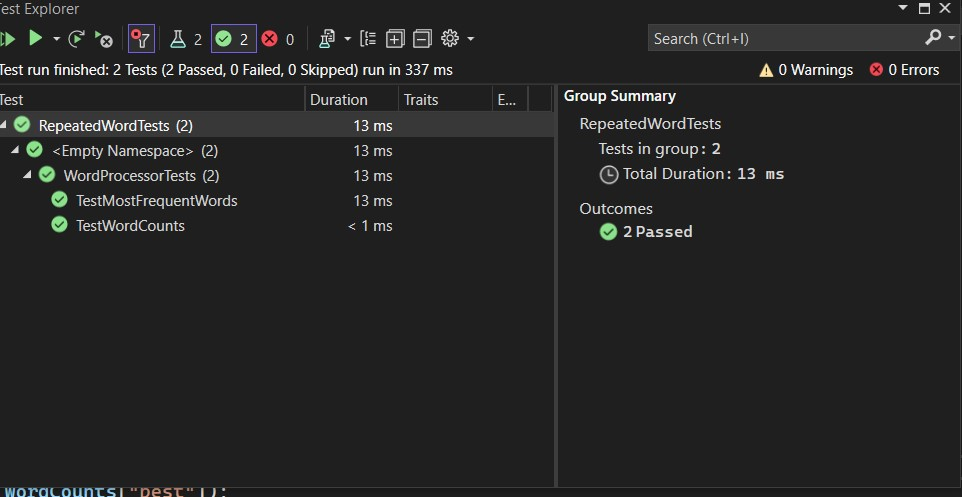
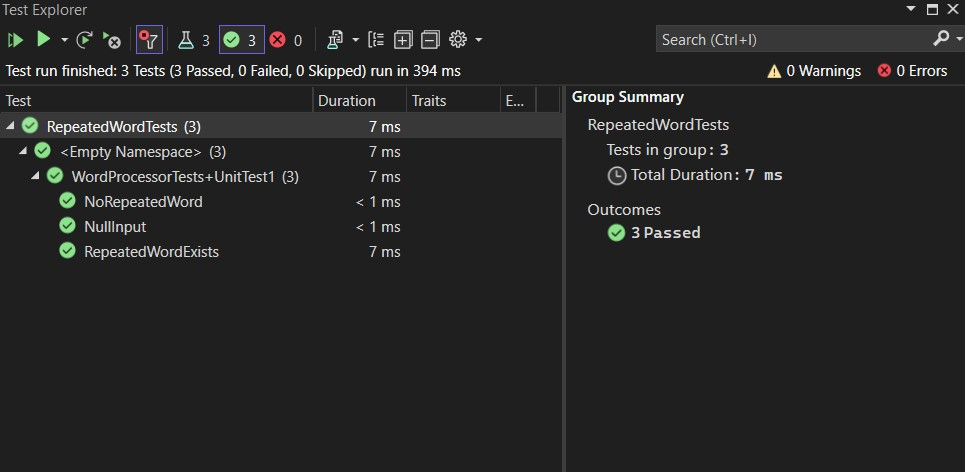
i edie it  to find the first word to occur more than once in a string

diff --git a/repeated-word/Program.cs b/repeated-word/Program.cs
@@ -5,46 +5,67 @@ public class Program
 {
     public static void Main(string[] args)
     {
-        string input = "Once upon a time, there was a brave princess who...";
-        WordProcessor wordProcessor = new WordProcessor();
-        Dictionary<string, int> wordCounts = wordProcessor.GetWordCounts(input);
-        List<string> mostFrequentWords = wordProcessor.GetMostFrequentWords(input, 3);
+        //    string input = "Once upon a time, there was a brave princess who...";
+        //    WordProcessor wordProcessor = new WordProcessor();
+        //    Dictionary<string, int> wordCounts = wordProcessor.GetWordCounts(input);
+        //    List<string> mostFrequentWords = wordProcessor.GetMostFrequentWords(input, 3);
 
-        Console.WriteLine("Word Counts:");
-        foreach (var kvp in wordCounts)
-        {
-            Console.WriteLine($"{kvp.Key}: {kvp.Value}");
-        }
+        //    Console.WriteLine("Word Counts:");
+        //    foreach (var kvp in wordCounts)
+        //    {
+        //        Console.WriteLine($"{kvp.Key}: {kvp.Value}");
+        //    }
 
-        Console.WriteLine($"Top 3 Most Frequent Words: {string.Join(", ", mostFrequentWords)}");
+        //    Console.WriteLine($"Top 3 Most Frequent Words: {string.Join(", ", mostFrequentWords)}");
 
 
-        Console.WriteLine("--------------------");
+        //    Console.WriteLine("--------------------");
 
-        string input2 = "It was the best of times, it was the worst of times, it was the age of wisdom, it was the age of foolishness, it was the epoch of belief, it was the epoch of incredulity, it was the season of Light, it was the season of Darkness, it was the spring of hope, it was the winter of despair, we had everything before us, we had nothing before us, we were all going direct to Heaven, we were all going direct the other way – in short, the period was so far like the present period, that some of its noisiest authorities insisted on its being received, for good or for evil, in the superlative degree of comparison only...";
-        Dictionary<string, int> wordCounts2 = wordProcessor.GetWordCounts(input2);
-        List<string> mostFrequentWords2 = wordProcessor.GetMostFrequentWords(input2, 3);
+        //    string input2 = "It was the best of times, it was the worst of times, it was the age of wisdom, it was the age of foolishness, it was the epoch of belief, it was the epoch of incredulity, it was the season of Light, it was the season of Darkness, it was the spring of hope, it was the winter of despair, we had everything before us, we had nothing before us, we were all going direct to Heaven, we were all going direct the other way – in short, the period was so far like the present period, that some of its noisiest authorities insisted on its being received, for good or for evil, in the superlative degree of comparison only...";
+        //    Dictionary<string, int> wordCounts2 = wordProcessor.GetWordCounts(input2);
+        //    List<string> mostFrequentWords2 = wordProcessor.GetMostFrequentWords(input2, 3);
 
-        Console.WriteLine("Word Counts:");
-        foreach (var kvp in wordCounts2)
-        {
-            Console.WriteLine($"{kvp.Key}: {kvp.Value}");
-        }
+        //    Console.WriteLine("Word Counts:");
+        //    foreach (var kvp in wordCounts2)
+        //    {
+        //        Console.WriteLine($"{kvp.Key}: {kvp.Value}");
+        //    }
 
-        Console.WriteLine($"Top 3 Most Frequent Words: {string.Join(", ", mostFrequentWords2)}");
+        //    Console.WriteLine($"Top 3 Most Frequent Words: {string.Join(", ", mostFrequentWords2)}");
 
-        Console.WriteLine("--------------------");
+        //    Console.WriteLine("--------------------");
 
-        string input3 = "It was a queer, sultry summer, the summer they electrocuted the Rosenbergs, and I didn’t know what I was doing in New York...";
-        Dictionary<string, int> wordCounts3 = wordProcessor.GetWordCounts(input3);
-        List<string> mostFrequentWords3 = wordProcessor.GetMostFrequentWords(input3, 3);
+        //    string input3 = "It was a queer, sultry summer, the summer they electrocuted the Rosenbergs, and I didn’t know what I was doing in New York...";
+        //    Dictionary<string, int> wordCounts3 = wordProcessor.GetWordCounts(input3);
+        //    List<string> mostFrequentWords3 = wordProcessor.GetMostFrequentWords(input3, 3);
 
-        Console.WriteLine("Word Counts:");
-        foreach (var kvp in wordCounts3)
-        {
-            Console.WriteLine($"{kvp.Key}: {kvp.Value}");
-        }
+        //    Console.WriteLine("Word Counts:");
+        //    foreach (var kvp in wordCounts3)
+        //    {
+        //        Console.WriteLine($"{kvp.Key}: {kvp.Value}");
+        //    }
 
-        Console.WriteLine($"Top 3 Most Frequent Words: {string.Join(", ", mostFrequentWords3)}");
+        //    Console.WriteLine($"Top 3 Most Frequent Words: {string.Join(", ", mostFrequentWords3)}");
+        //
+
+
+
+        var input = "Once upon a time, there was a brave princess who...";
+        string result = RepeatedWord.FindFirstRepeatedWord(input);
+        Console.WriteLine(result);
+
+        Console.WriteLine("--------------------------");
+
+        var input2 = "It was the best of times, it was the worst of times, it was the age of wisdom, it was the age of foolishness, it was the epoch of belief, it was the epoch of incredulity, it was the season of Light, it was the season of Darkness, it was the spring of hope, it was the winter of despair, we had everything before us, we had nothing before us, we were all going direct to Heaven, we were all going direct the other way – in short, the period was so far like the present period, that some of its noisiest authorities insisted on its being received, for good or for evil, in the superlative degree of comparison only...";
+        string result2 = RepeatedWord.FindFirstRepeatedWord(input2);
+        Console.WriteLine(result2);
+
+        Console.WriteLine("--------------------------");
+
+        var input3 = "It was a queer, sultry summer, the summer they electrocuted the Rosenbergs, and I didn’t know what I was doing in New York...";
+        string result3 = RepeatedWord.FindFirstRepeatedWord(input3);
+        Console.WriteLine(result3);
+
     }
 }
+

diff --git a/repeated-word/WordProcessor.cs b/repeated-word/WordProcessor.cs
@@ -3,45 +3,66 @@ using System.Collections.Generic;
 using System.Linq;
 using System.Text.RegularExpressions;
 
-public class WordProcessor
-{
-    public Dictionary<string, int> GetWordCounts(string input)
+
+    //public Dictionary<string, int> GetWordCounts(string input)
+    //{
+    //    // Split the input string into words
+    //    string[] words = Regex.Split(input, @"\W+");
+
+    //    // Create a dictionary to store word frequencies
+    //    Dictionary<string, int> wordCount = new Dictionary<string, int>();
+
+    //    foreach (string word in words)
+    //    {
+    //        // Remove punctuation and convert to lowercase for case-insensitive comparison
+    //        string cleanedWord = word.Trim(new char[] { '.', ',', '!', '?', '-', ':', ';' }).ToLower();
+
+    //        // Update the word count
+    //        if (wordCount.ContainsKey(cleanedWord))
+    //        {
+    //            wordCount[cleanedWord]++;
+    //        }
+    //        else
+    //        {
+    //            wordCount[cleanedWord] = 1;
+    //        }
+    //    }
+
+    //    return wordCount;
+    //}
+
+    //public List<string> GetMostFrequentWords(string input, int count)
+    //{
+    //    Dictionary<string, int> wordCount = GetWordCounts(input);
+
+    //    // Sort the dictionary by value in descending order
+    //    var sortedWordCount = wordCount.OrderByDescending(kv => kv.Value);
+
+    //    // Take the top 'count' words
+    //    var mostFrequentWords = sortedWordCount.Take(count).Select(kv => kv.Key).ToList();
+
+    //    return mostFrequentWords;
+    //}
+    public class RepeatedWord
     {
-        // Split the input string into words
-        string[] words = Regex.Split(input, @"\W+");
-
-        // Create a dictionary to store word frequencies
-        Dictionary<string, int> wordCount = new Dictionary<string, int>();
-
-        foreach (string word in words)
+        public static string FindFirstRepeatedWord(string input)
         {
-            // Remove punctuation and convert to lowercase for case-insensitive comparison
-            string cleanedWord = word.Trim(new char[] { '.', ',', '!', '?', '-', ':', ';' }).ToLower();
+            if (string.IsNullOrEmpty(input))
+                return null;
 
-            // Update the word count
-            if (wordCount.ContainsKey(cleanedWord))
+            string[] words = Regex.Split(input.ToLower(), @"\W+");
+
+            HashSet<string> reapeted = new HashSet<string>();
+
+            foreach (string word in words)
             {
-                wordCount[cleanedWord]++;
+                if (!reapeted.Add(word))
+                {
+                    return word;
+                }
             }
-            else
-            {
-                wordCount[cleanedWord] = 1;
-            }
+
+            return null;
         }
-
-        return wordCount;
     }
 
-    public List<string> GetMostFrequentWords(string input, int count)
-    {
-        Dictionary<string, int> wordCount = GetWordCounts(input);
-
-        // Sort the dictionary by value in descending order
-        var sortedWordCount = wordCount.OrderByDescending(kv => kv.Value);
-
-        // Take the top 'count' words
-        var mostFrequentWords = sortedWordCount.Take(count).Select(kv => kv.Key).ToList();
-
-        return mostFrequentWords;
-    }
-}

diff --git a/RepeatedWordTests/UnitTest1.cs b/RepeatedWordTests/UnitTest1.cs
@@ -4,26 +4,33 @@ using Xunit;
 
 public class WordProcessorTests
 {
-    [Fact]
-    public void TestWordCounts()
+    public class UnitTest1
     {
-        WordProcessor wordProcessor = new WordProcessor();
-        string input = "It was the best of times, it was the worst of times...";
-        Dictionary<string, int> wordCounts = wordProcessor.GetWordCounts(input);
+        
+        [Fact]
+        public void NullInput()
+        {
+            string input = null;
+            string result = RepeatedWord.FindFirstRepeatedWord(input);
+            Assert.Null(result);
+        }
 
-        Assert.Equal(2, wordCounts["it"]);
-        Assert.Equal(2, wordCounts["was"]);
-        Assert.Equal(2, wordCounts["the"]);
-        Assert.Equal(1, wordCounts["best"]);
-    }
+        [Fact]
+        public void NoRepeatedWord()
+        {
+            string input = "This is a good student.";
+            string result = RepeatedWord.FindFirstRepeatedWord(input);
+            Assert.Null(result);
+        }
 
-    [Fact]
-    public void TestMostFrequentWords()
-    {
-        WordProcessor wordProcessor = new WordProcessor();
-        string input = "It was the best of times, it was the worst of times...";
-        List<string> mostFrequentWords = wordProcessor.GetMostFrequentWords(input, 3);
-
-        Assert.Equal(new List<string> { "it", "was", "the" }, mostFrequentWords);
+        [Fact]
+        public void RepeatedWordExists()
+        {
+            string input = "This is  a good student with a smart brain";
+            string result = RepeatedWord.FindFirstRepeatedWord(input);
+            Assert.Equal("a", result);
+        }
     }
 }
+
+   

diff --git a/repeated-word/Redme.md b/repeated-word/Redme.md
@@ -6,22 +6,13 @@
 - [Approach & Efficiency](#approach--efficiency)
 - [Solution](#solution)
 - [Code](#code)
-- [Feature Tasks](#feature-tasks)
 - [Unit Tests](#unit-tests)
 
 ## Description
 
- ![repeated-word](./repet2.jpg)
+ ![repeated-word](./repeet2.jpg)
 
-This project implements a word processor in C# that can count word occurrences and find the most frequent words in a given text. It includes a sample program (`Program.cs`) that demonstrates the functionality of the `WordProcessor` class.
-
-## Approach & Efficiency
-
-The `WordProcessor` class utilizes regular expressions and dictionaries to efficiently process the input text. Here's an overview of the approach:
-
-- **Word Counting**: The `GetWordCounts` method splits the input text into words, removes punctuation, converts them to lowercase for case-insensitive comparison, and counts the occurrences of each word using a dictionary.
-
-- **Finding Most Frequent Words**: The `GetMostFrequentWords` method leverages the word counts obtained earlier to find the most frequent words by sorting the dictionary by value and selecting the top N words.
+The FindFirstRepeatedWord method uses regular expressions and a HashSet to split the input string into words, convert them to lowercase for case-insensitivity, and then identify the first repeated word in the string.  
 
 ## Solution
 
@@ -31,24 +22,9 @@ The solution provides a basic yet functional word processor in C# for word count
 
 You can find the complete code in [repeated-word](./WordProcessor.cs) files.
 
-## Feature Tasks
-
-The following feature tasks have been completed in the code:
-
-- **Word Counting**: The code can count the occurrences of each word in the input text.
-
-- **Finding Most Frequent Words**: The code can find the most frequent words in the input text.
 
 ## Unit Tests
 
 ![ test](./repet.jpg)
 
-Unit tests have been written using Xunit to validate the functionality of the `WordProcessor` class. These tests include:
 
-- **TestWordCounts**: Verifies the correctness of word counting.
-
-- **TestMostFrequentWords**: Ensures that the most frequent words are correctly identified.
-
-All unit tests are passing, covering the "happy path," expected failures, and edge cases.
-
-This README provides an overview of the implemented word processor, its approach, and the completion of feature tasks. The code is available in the provided files, and unit tests have been included to verify its functionality.
